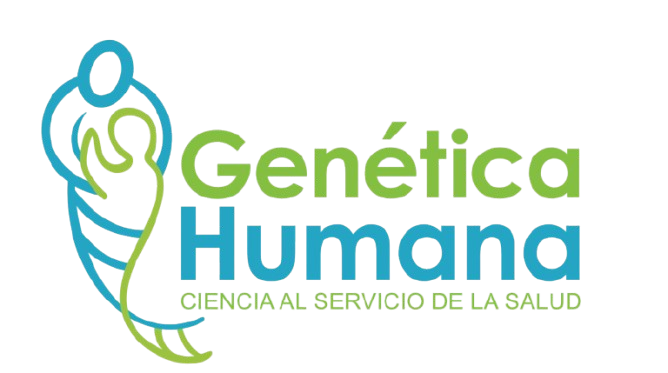
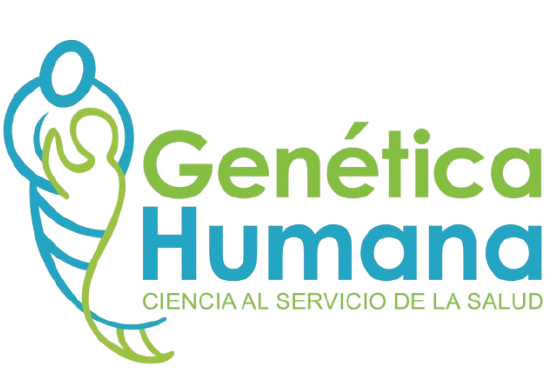
AuthAmplify: Frontend changes

Changed region(s): [[0.0, 0.0885, 0.9909, 0.9732], [0.3406, 0.3244, 0.9909, 0.5308], [0.3406, 0.3539, 0.3716, 0.4129]]

diff --git a/frontend/src/components/AuthAmplify.tsx b/frontend/src/components/AuthAmplify.tsx
@@ -19,21 +19,18 @@ const AuthAmplify: React.FC<Props> = ({ socialProviders, children }) => {
       components={{
         Header: () => (
           <div className="mb-5 mt-20 flex flex-col items-center justify-center gap-2">
-            <div className="flex justify-center space-x-1 items-center">
+            <div className="flex justify-center items-center gap-x-4">
               <img
                 src="/Gentica_Humana.png"
                 alt="Logo Genética Humana"
-                className="h-56 max-h-56 w-auto object-contain shrink-0"
+                className="h-56 max-h-56 w-auto object-contain"
               />
               <img
                 src="/GeneticaLogoAid.png"
                 alt="Logo GHeneAid"
-                className="h-56 max-h-50 w-auto object-contain shrink-0"
+                className="h-56 max-h-50 w-auto object-contain"
               />
             </div>
-            <p className="text-3xl font-bold text-slate-800 mt-2">
-              GHeneAid - Genética Humana
-            </p>
           </div>
         ),
       }}
